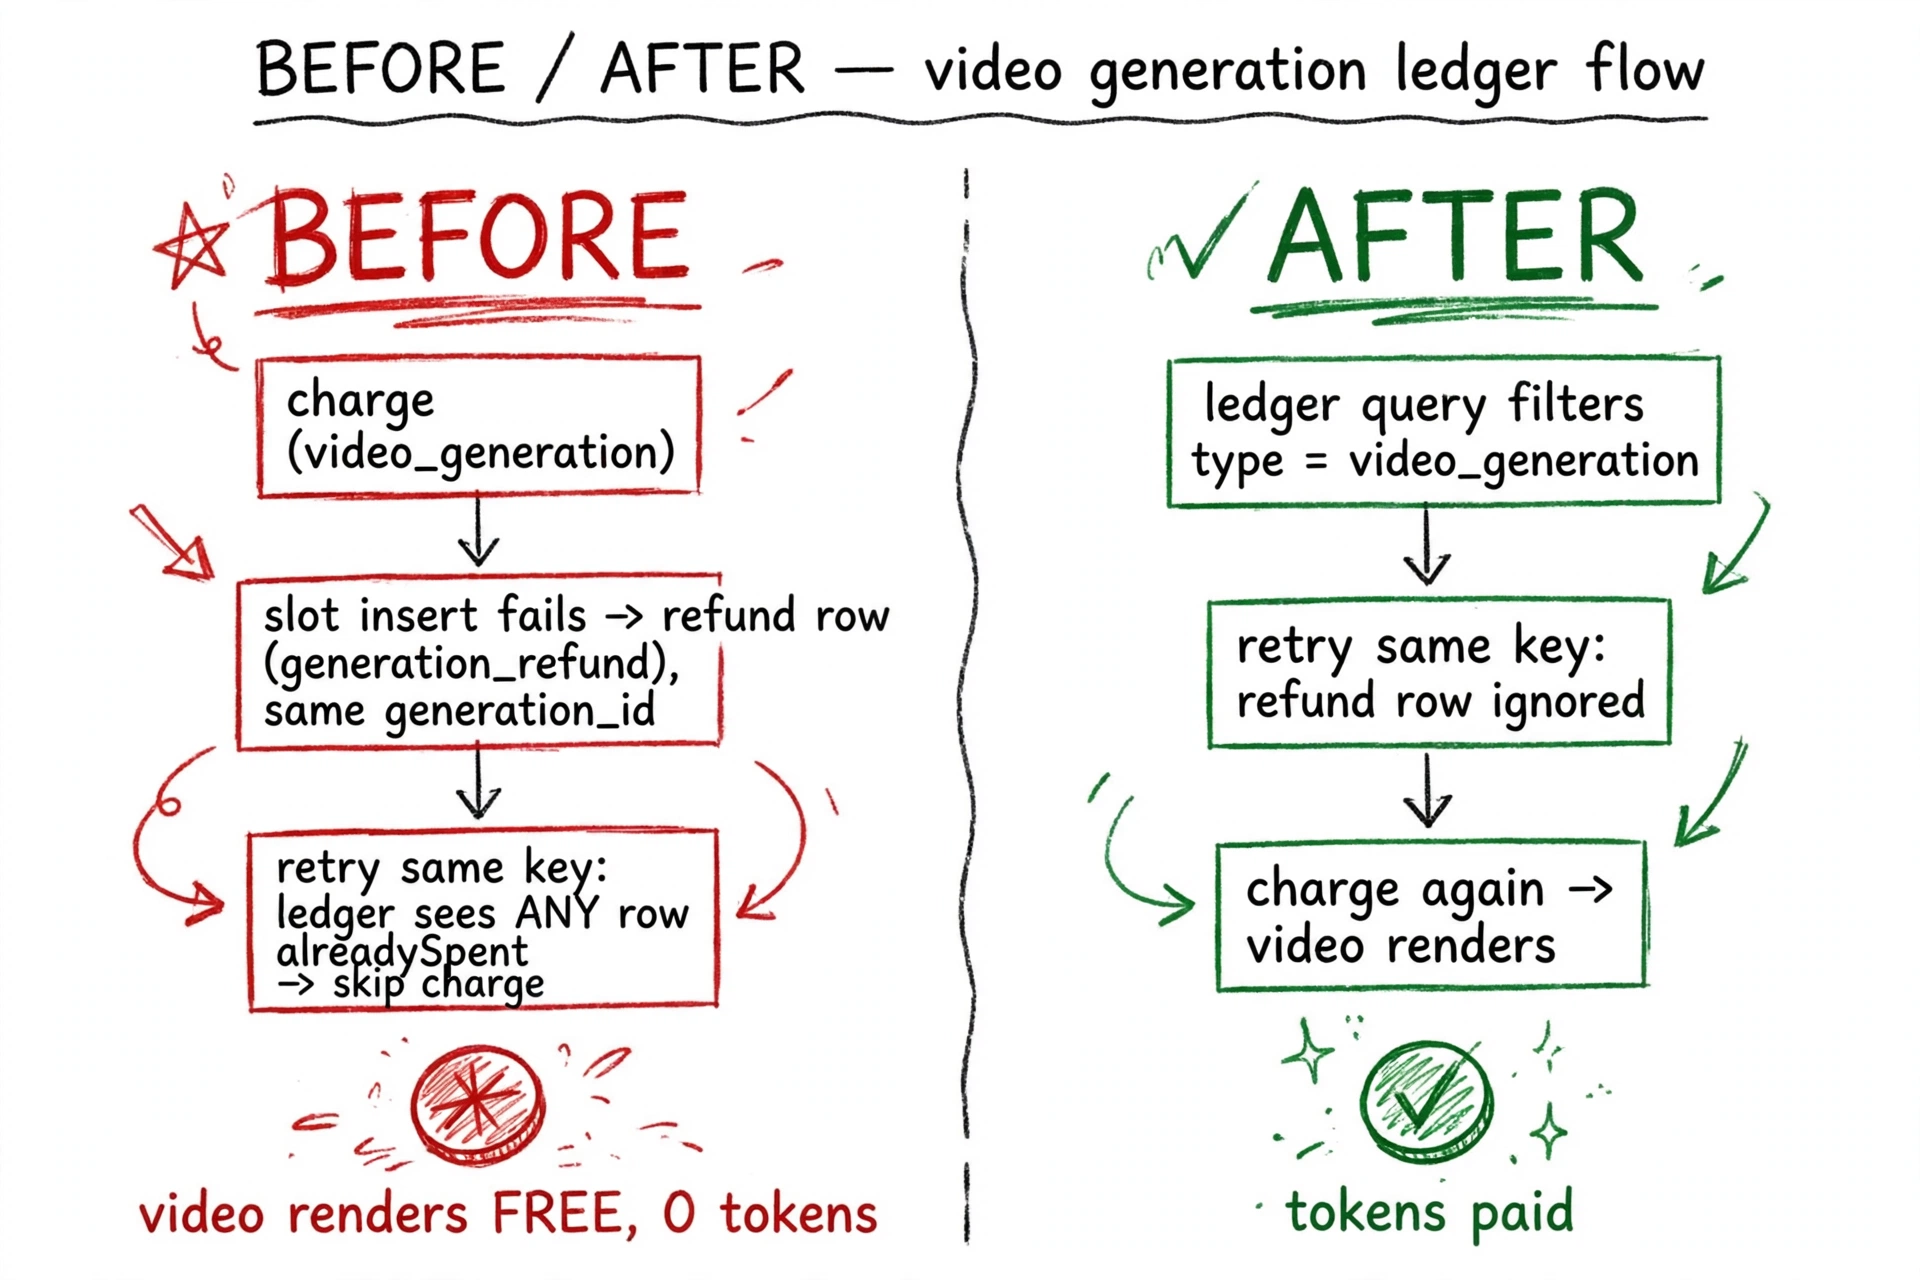
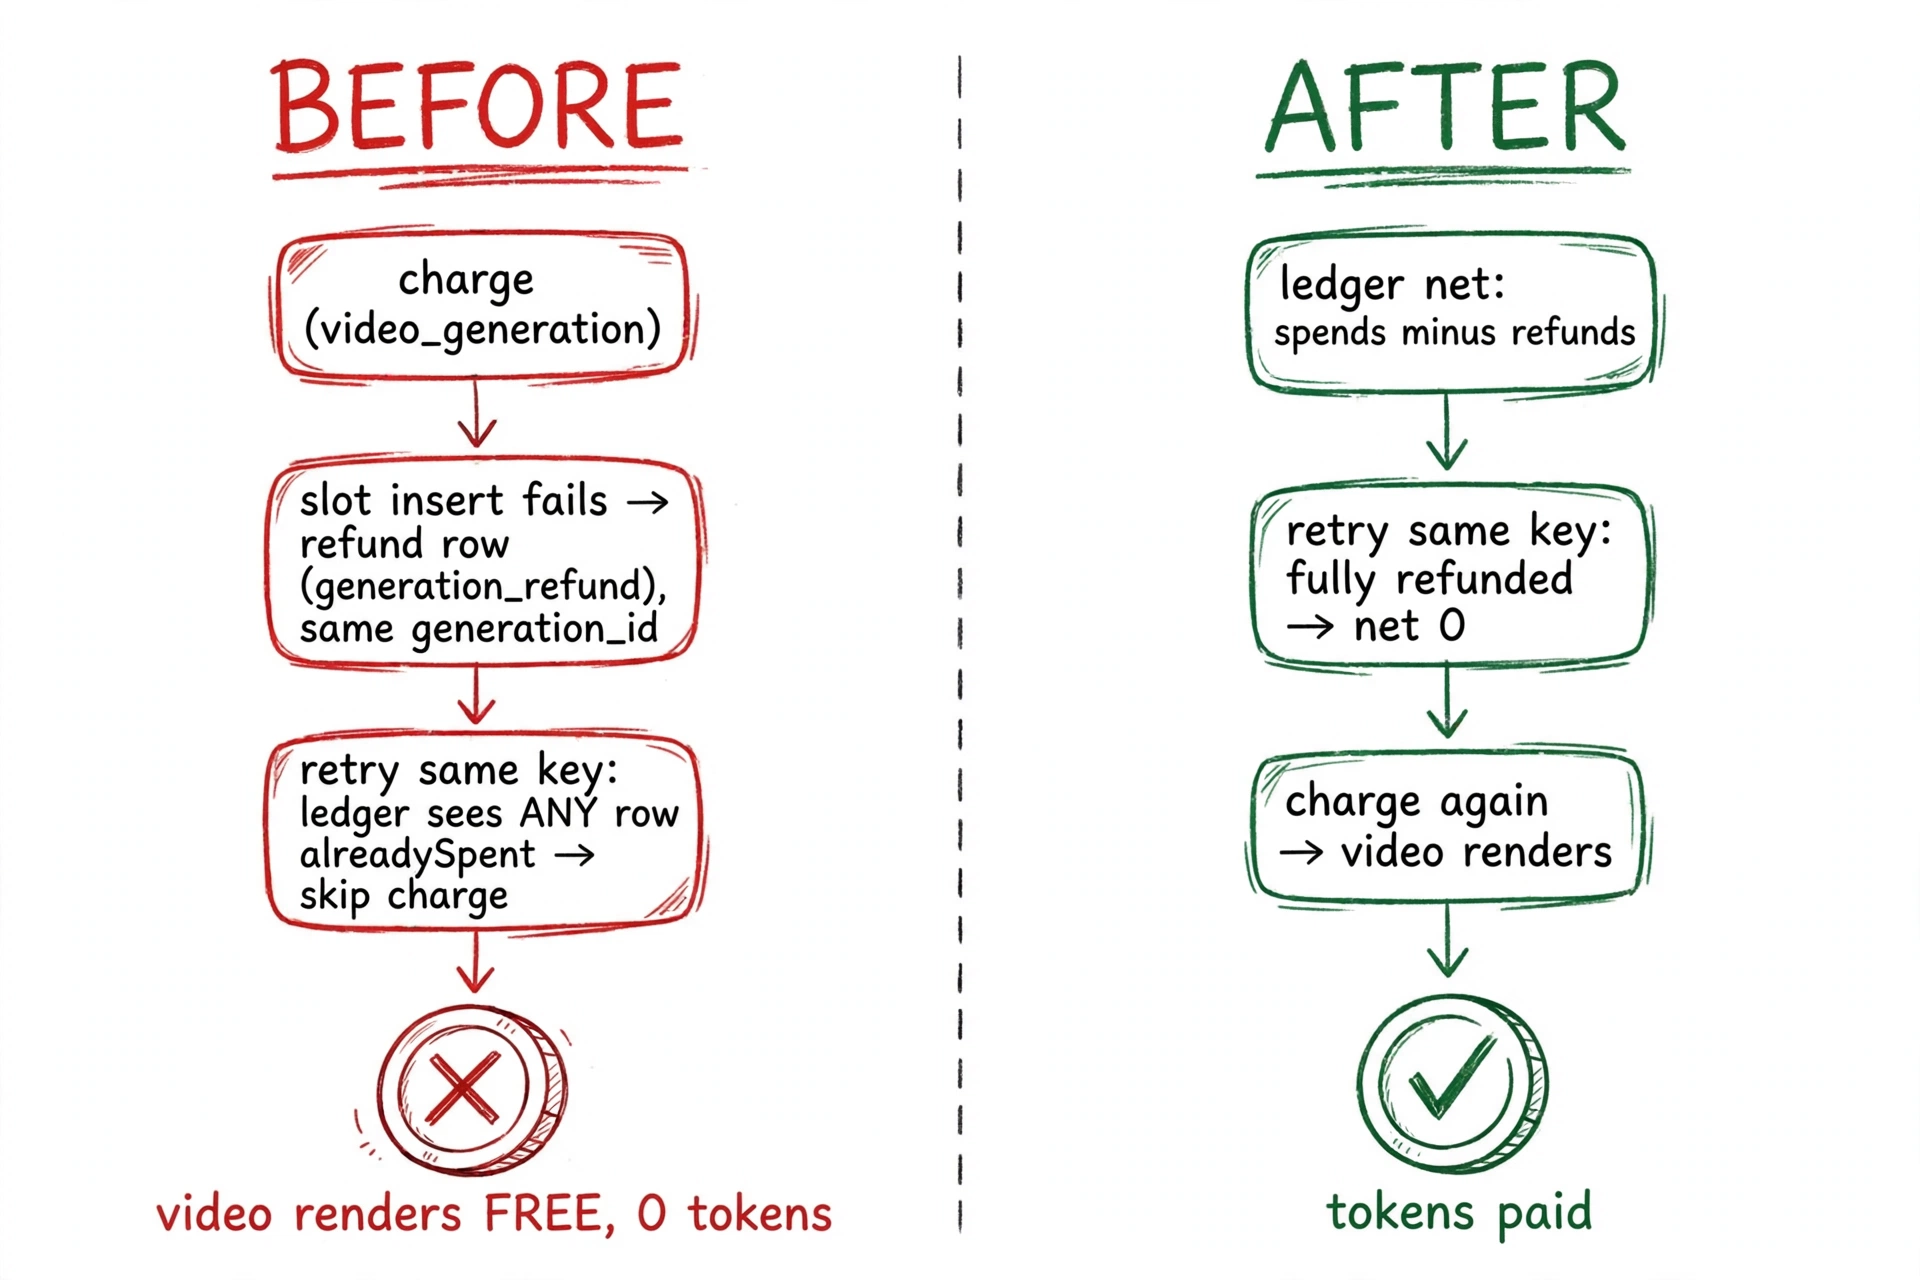
fix(web): charge again when a generation's spend was fully refunded
The read-your-ledger check treated any token_transactions row under the
generation_id as already spent. A refund inserts a generation_refund
credit row and never deletes the video_generation spend row, so after a
failed attempt (slot-insert rollback or experiment-pair recheck) the
ledger holds both rows and a same-key retry still rendered the corrected
video for free. The check is now net-based via netLedgerSpent
(lib/tokens): spends minus refunds, and only a positive net counts as
already spent — the same capping shape refund_batch_tokens uses in
migration 017.

Tests: route-level refunded / unrefunded / partially-refunded cases plus
direct netLedgerSpent unit tests. Targeted vitest 198 passed (incl.
negative control: the fully-refunded test fails with the old existence
check); tsc and eslint clean on touched files. Committed with
--no-verify: the full pre-commit hook OOMs in this sandbox, so checks
ran separately on touched files only.

diff --git a/apps/web/app/api/videos/__tests__/generate-and-schedule.test.ts b/apps/web/app/api/videos/__tests__/generate-and-schedule.test.ts
@@ -150,10 +150,9 @@ interface DbConfig {
   slotCount?: number | null;
   ledgerIds?: string[];
   /** Typed ledger rows for the generation_id: when set, replaces ledgerIds
-   *  (which defaults every row to a video_generation spend). Lets a test
-   *  pin the type filter — e.g. a ledger holding only a generation_refund
-   *  row must NOT count as already spent. */
-  ledgerRows?: Array<{ id: string; type: string }>;
+   *  (which defaults every row to a 2-token video_generation spend).
+   *  Amounts mirror production: spends negative, refunds positive. */
+  ledgerRows?: Array<{ id: string; type: string; amount: number }>;
   ledgerError?: boolean;
   spend?: { spent: boolean; balance: number };
   spendErrorCode?: string;
@@ -219,18 +218,12 @@ function lisbonTimePlus(hoursAhead: number): string {
 function makeClient(cfg: DbConfig): unknown {
   const table = (name: string): unknown => {
     let isCountQuery = false;
-    // Equality filters applied to this query, so the mock can honour them
-    // the way PostgREST does (the ledger lookup filters by type).
-    const eqFilters: Record<string, unknown> = {};
     const builder: Record<string, unknown> = {
       select: (_cols?: string, opts?: { count?: string; head?: boolean }) => {
         isCountQuery = opts?.count === 'exact' && opts?.head === true;
         return builder;
       },
-      eq: (col?: string, val?: unknown) => {
-        if (typeof col === 'string') eqFilters[col] = val;
-        return builder;
-      },
+      eq: () => builder,
       in: () => builder,
       limit: () => builder,
       order: () => builder,
@@ -344,9 +337,8 @@ function makeClient(cfg: DbConfig): unknown {
           if (cfg.ledgerError) {
             return Promise.resolve({ data: null, error: { code: 'XX000', message: 'db down' } }).then(resolve, reject);
           }
-          const rows = (
-            cfg.ledgerRows ?? (cfg.ledgerIds ?? []).map((id) => ({ id, type: 'video_generation' }))
-          ).filter((row) => eqFilters.type === undefined || row.type === eqFilters.type);
+          const rows =
+            cfg.ledgerRows ?? (cfg.ledgerIds ?? []).map((id) => ({ id, type: 'video_generation', amount: -2 }));
           return Promise.resolve({ data: rows, error: null }).then(resolve, reject);
         }
         if (name === 'scheduled_posts') {
@@ -1055,28 +1047,32 @@ describe('POST /api/videos/generate-and-schedule', () => {
       expect(inserts['schedules']).toBeUndefined();
     });
 
-    it('re-charges when the ledger holds only a refund row for the generation_id', async () => {
-      // A prior attempt spent, then failed at the slot insert (or the
-      // experiment-pair recheck) and refunded under the same generation_id.
-      // The refund row is not a spend: a same-key retry must charge again,
-      // or the corrected video renders for free.
+    it('re-charges when the prior spend was fully refunded', async () => {
+      // Attempt 1 charged, then the slot-insert rollback (or the
+      // experiment-pair recheck) refunded under the same generation_id.
+      // The refund inserts a credit row and never deletes the spend row,
+      // so the ledger holds both — only the net counts: fully refunded
+      // means the retry must charge again, or the video renders for free.
       setup({
         ...DEFAULT_CFG,
-        ledgerRows: [{ id: 'tx-refund', type: 'generation_refund' }],
+        ledgerRows: [
+          { id: 'tx-spend', type: 'video_generation', amount: -2 },
+          { id: 'tx-refund', type: 'generation_refund', amount: 2 },
+        ],
       });
-      const res = await post(baseBody({ idempotencyKey: 'refund-only-key' }));
+      const res = await post(baseBody({ idempotencyKey: 'spent-and-refunded-key' }));
       const json = await res.json();
       expect(res.status).toBe(200);
       expect(json.success).toBe(true);
       expect(rpcCalls.filter((c) => c.name === 'spend_tokens')).toHaveLength(1);
     });
 
-    it('does not charge when the ledger holds a spend row for the generation_id', async () => {
-      // Same fixture shape as the refund-only case, but with a real spend
-      // row: the retry resumes without charging.
+    it('does not charge when the ledger holds an unrefunded spend row', async () => {
+      // Same fixture shape as the refunded case, but with no refund row:
+      // the retry resumes without charging.
       setup({
         ...DEFAULT_CFG,
-        ledgerRows: [{ id: 'tx-spend', type: 'video_generation' }],
+        ledgerRows: [{ id: 'tx-spend', type: 'video_generation', amount: -2 }],
       });
       const res = await post(baseBody({ idempotencyKey: 'spend-row-key' }));
       const json = await res.json();
@@ -1085,18 +1081,17 @@ describe('POST /api/videos/generate-and-schedule', () => {
       expect(rpcCalls.filter((c) => c.name === 'spend_tokens')).toHaveLength(0);
     });
 
-    it('does not charge when the ledger holds both a spend and a refund row', async () => {
-      // Attempt 1 spent and refunded; attempt 2 spent again. A third
-      // same-key retry must see the spend among the rows, not stop at the
-      // refund.
+    it('does not charge when the ledger holds a spend with only a partial refund', async () => {
+      // A partial refund leaves a net spend standing: the retry resumes
+      // without charging.
       setup({
         ...DEFAULT_CFG,
         ledgerRows: [
-          { id: 'tx-refund', type: 'generation_refund' },
-          { id: 'tx-spend', type: 'video_generation' },
+          { id: 'tx-spend', type: 'video_generation', amount: -2 },
+          { id: 'tx-refund', type: 'generation_refund', amount: 1 },
         ],
       });
-      const res = await post(baseBody({ idempotencyKey: 'spend-plus-refund-key' }));
+      const res = await post(baseBody({ idempotencyKey: 'spend-partial-refund-key' }));
       const json = await res.json();
       expect(res.status).toBe(200);
       expect(json.success).toBe(true);

diff --git a/apps/web/app/api/videos/generate-and-schedule/route.ts b/apps/web/app/api/videos/generate-and-schedule/route.ts
@@ -29,7 +29,7 @@ import {
 } from '@/lib/schedule/slot-distribution';
 import { validateScheduleWindow } from '@/lib/schedule-window';
 import { isValidTimezone } from '@/lib/timezone';
-import { computeVideoTokens, toFiniteNumber } from '@/lib/tokens';
+import { computeVideoTokens, netLedgerSpent, toFiniteNumber } from '@/lib/tokens';
 import { buildSlotRows } from './slot-rows';
 import { fetchReplay } from './replay';
 import { buildPairFacts, checkExperimentLink, ExperimentLinkSchema, verifyExperimentPairAfterInsert } from './experiment-link';
@@ -550,14 +550,12 @@ async function postHandler(request: Request): Promise<NextResponse> {
       if (replayed) return replayed;
     }
   }
-  // Read-your-ledger: only a prior SPEND counts — a refund row under the same
-  // generation_id must not skip the charge (no unique constraint is assumed).
+  // Read-your-ledger, net-based: a refund leaves the spend row in place, so
+  // only an unrefunded spend counts (see netLedgerSpent in lib/tokens).
   const { data: ledgerRows, error: ledgerError } = await supabase
     .from('token_transactions')
-    .select('id')
-    .eq('generation_id', idem.generationId)
-    .eq('type', 'video_generation')
-    .limit(1);
+    .select('type, amount')
+    .eq('generation_id', idem.generationId);
   // Fail closed: charging blind after a failed ledger read risks a double spend.
   if (ledgerError) {
     logger.error('[generate-and-schedule] spend ledger lookup failed', ledgerError, {
@@ -566,7 +564,7 @@ async function postHandler(request: Request): Promise<NextResponse> {
     });
     return coded(500, ERROR_CODES.INTERNAL_ERROR, formatErrorMessage(ERROR_CODES.INTERNAL_ERROR));
   }
-  const alreadySpent = (ledgerRows?.length ?? 0) > 0;
+  const alreadySpent = netLedgerSpent(ledgerRows ?? []) > 0;
   if (alreadySpent) {
     logger.warn('[generate-and-schedule] spend ledger already has this generation_id; resuming without charging', {
       generationId: idem.generationId,

diff --git a/apps/web/lib/__tests__/tokens.test.ts b/apps/web/lib/__tests__/tokens.test.ts
@@ -14,6 +14,7 @@ import { describe, it, expect, beforeEach } from 'vitest';
 
 import {
   computeVideoTokens,
+  netLedgerSpent,
   useTokenStore,
   FACELESS_PRICE,
   FACE_QUALITY_PRICES,
@@ -117,5 +118,47 @@ describe('useTokenStore', () => {
     useTokenStore.getState().spendTokens(3);
     useTokenStore.getState().resetTokens();
     expect(useTokenStore.getState().balance).toBe(DEFAULT_TOKEN_BALANCE);
+  });
+});
+
+describe('netLedgerSpent', () => {
+  it('returns 0 for an empty ledger', () => {
+    expect(netLedgerSpent([])).toBe(0);
+  });
+
+  it('returns the spend magnitude when nothing was refunded', () => {
+    expect(netLedgerSpent([{ type: 'video_generation', amount: -2 }])).toBe(2);
+  });
+
+  it('returns 0 when the spend was fully refunded', () => {
+    expect(
+      netLedgerSpent([
+        { type: 'video_generation', amount: -2 },
+        { type: 'generation_refund', amount: 2 },
+      ]),
+    ).toBe(0);
+  });
+
+  it('returns the remainder when the refund was partial', () => {
+    expect(
+      netLedgerSpent([
+        { type: 'video_generation', amount: -2 },
+        { type: 'generation_refund', amount: 1 },
+      ]),
+    ).toBe(1);
+  });
+
+  it('coerces string amounts from PostgREST and ignores other row types', () => {
+    expect(
+      netLedgerSpent([
+        { type: 'video_generation', amount: '-2' },
+        { type: 'generation_refund', amount: '2' },
+        { type: 'purchase', amount: 100 },
+      ]),
+    ).toBe(0);
+  });
+
+  it('counts a non-numeric amount as 0', () => {
+    expect(netLedgerSpent([{ type: 'video_generation', amount: 'n/a' }])).toBe(0);
   });
 });

diff --git a/apps/web/lib/tokens.ts b/apps/web/lib/tokens.ts
@@ -42,6 +42,24 @@ export function toFiniteNumber(value: unknown, fallback = 0): number {
 }
 
 //---------------
+// netLedgerSpent — net tokens still spent for one generation_id, from the
+// ledger rows under it. A refund inserts a generation_refund credit row and
+// never deletes the video_generation spend row (see refund_batch_tokens in
+// migration 017, which mirrors refund_generation_tokens), so a generation
+// counts as already spent only while its spends exceed its refunds. Spend
+// rows carry a negative amount, refunds a positive one. Rows of any other
+// type are ignored; a non-numeric amount counts as 0.
+//---------------
+export function netLedgerSpent(rows: Array<{ type: unknown; amount: unknown }>): number {
+  let net = 0;
+  for (const row of rows) {
+    if (row.type === 'video_generation') net += Math.abs(toFiniteNumber(row.amount, 0));
+    if (row.type === 'generation_refund') net -= toFiniteNumber(row.amount, 0);
+  }
+  return net;
+}
+
+//---------------
 // computeTokenPercentage — % of tokens remaining, always 0–100, never NaN.
 // maxTokens <= 0 (e.g. free plan with 0 tokens/month) → 0 instead of 0/0 = NaN.
 //---------------
